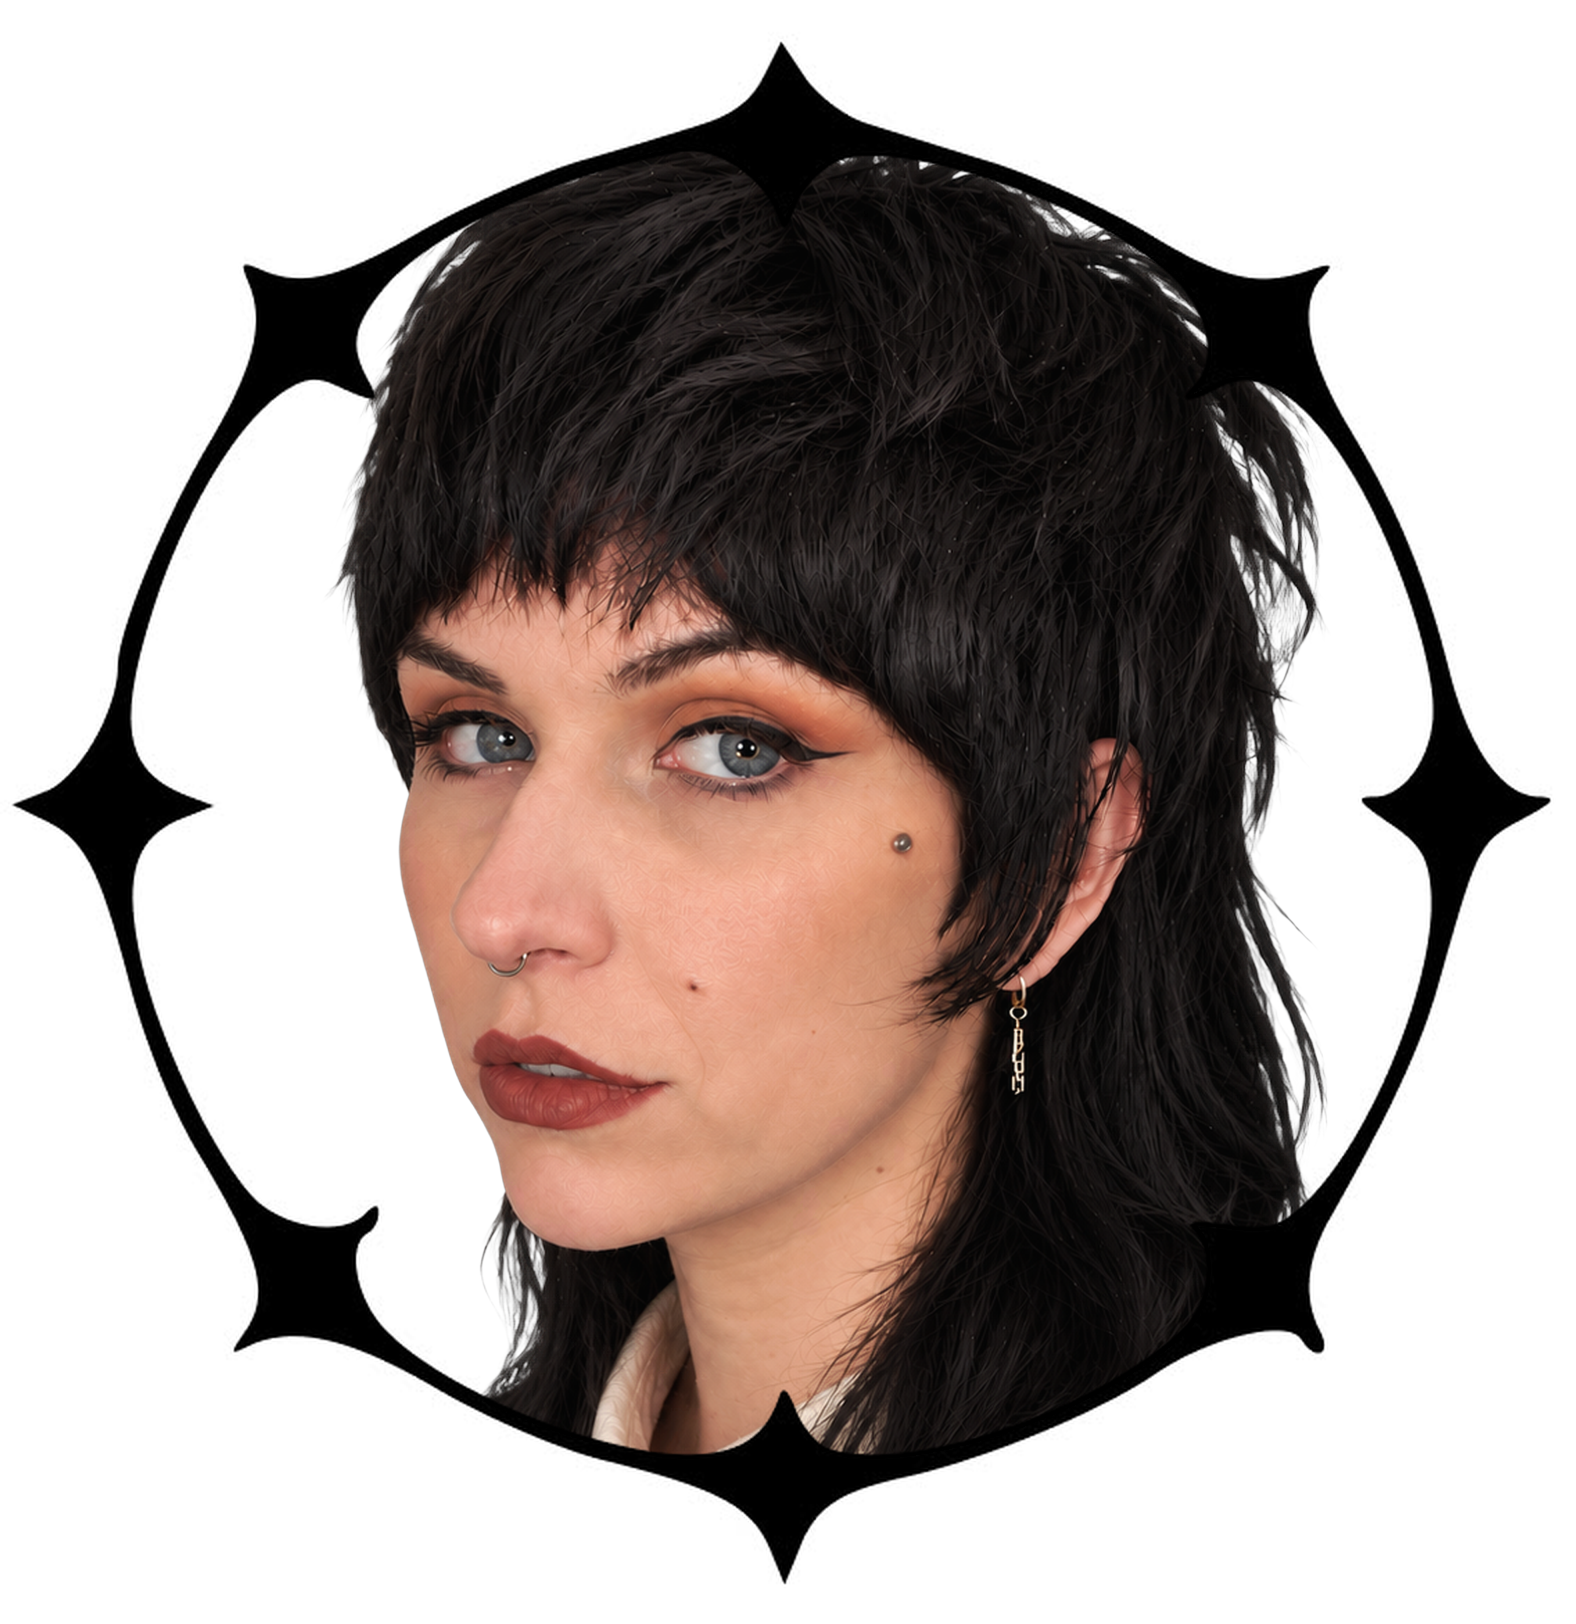
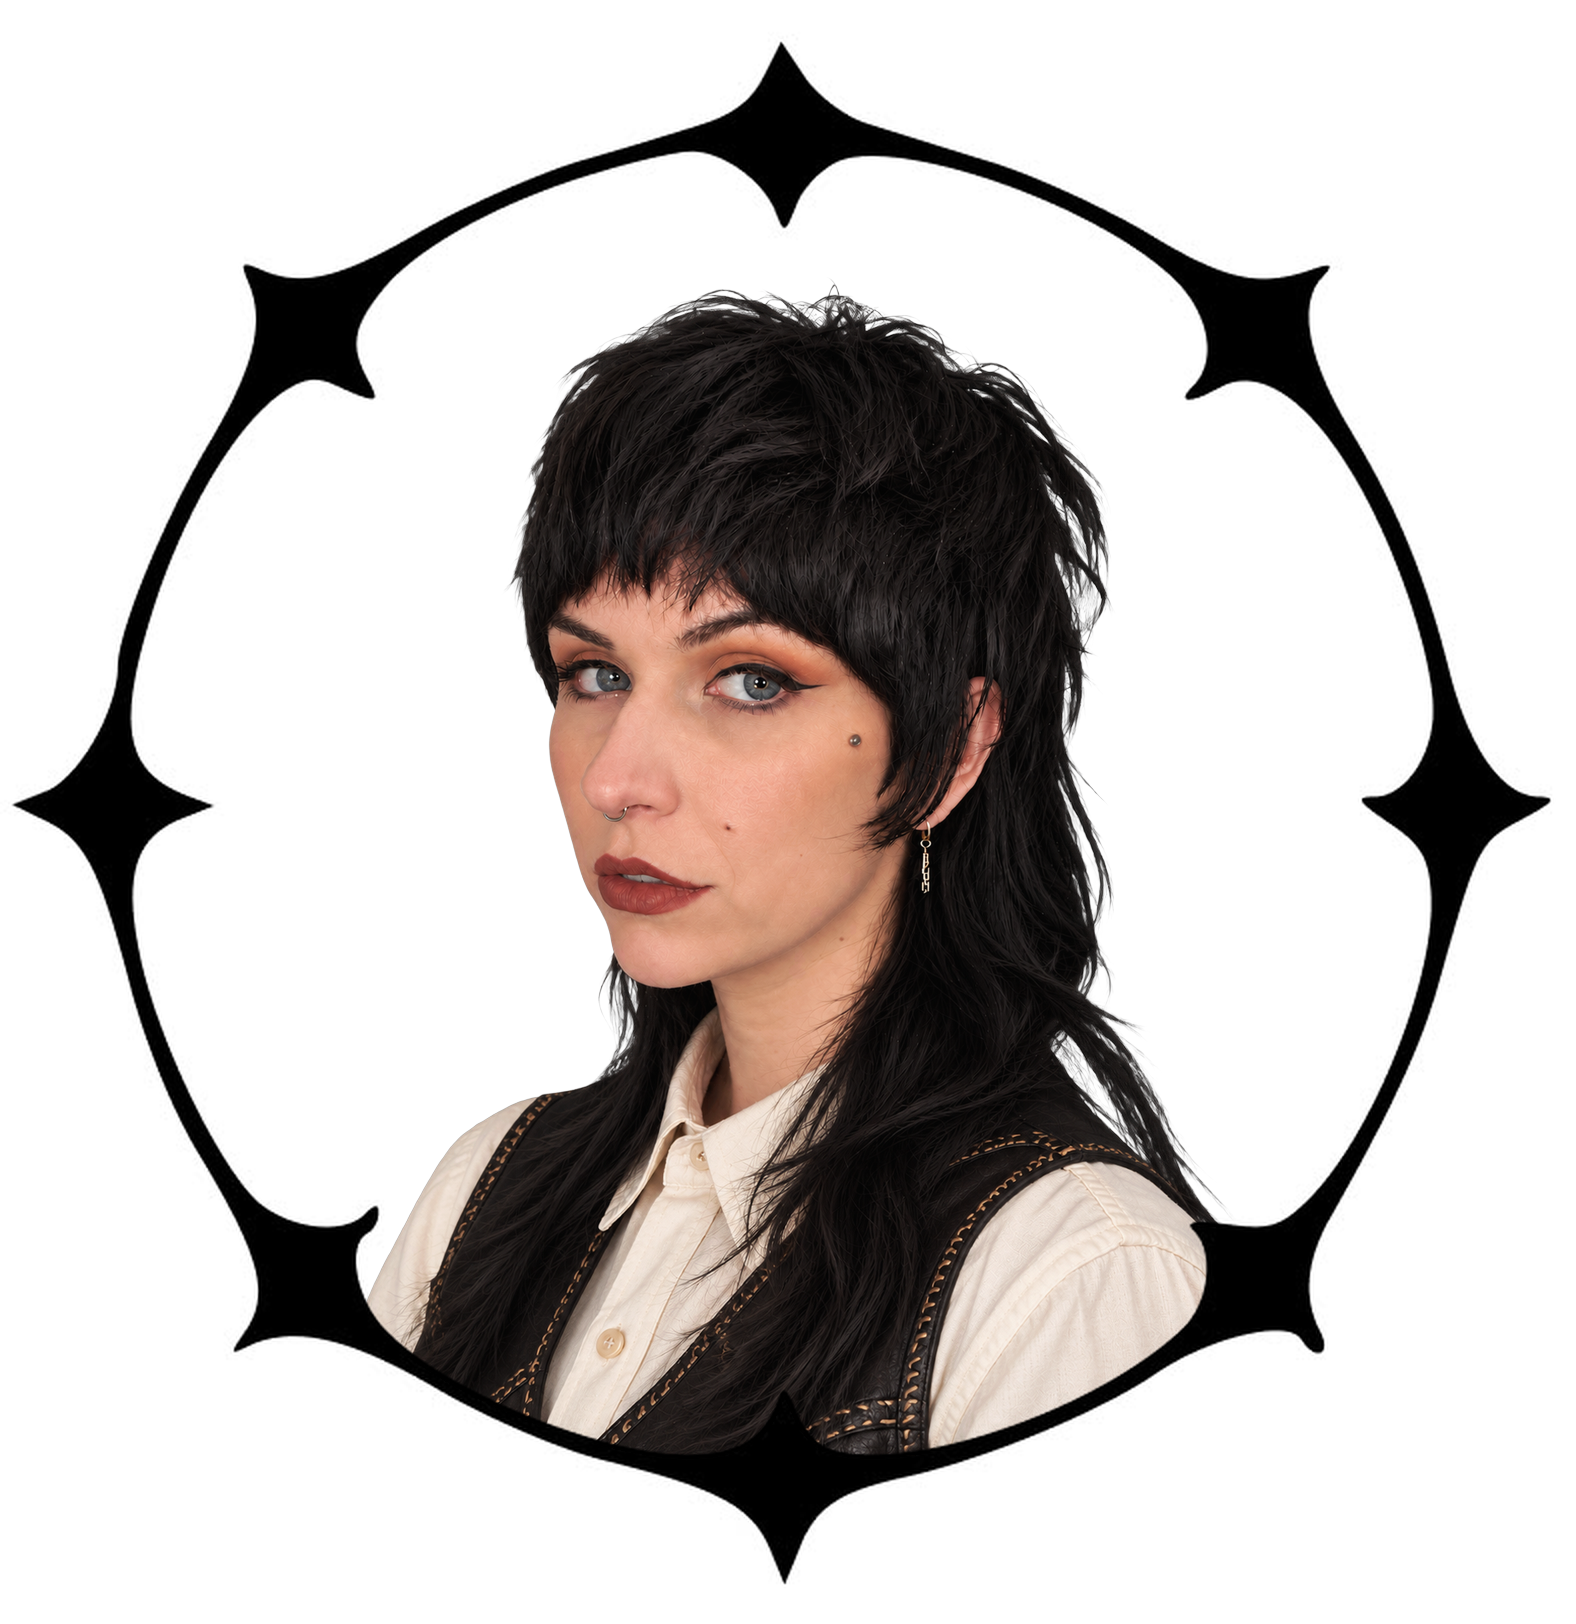
Zoom out framed portrait

diff --git a/scripts/make-framed-portrait.py b/scripts/make-framed-portrait.py
@@ -10,8 +10,8 @@ from PIL import Image, ImageDraw, ImageFilter
 
 ASSETS = Path(__file__).resolve().parent.parent / "assets"
 SCALE = 2          # the frame source is small; render at 2x so it stays sharp
-PORTRAIT_ZOOM = 1.15  # portrait width relative to the frame's inner width
-FACE_Y = 0.36      # where the face sits in the portrait, as a fraction of its height
+PORTRAIT_ZOOM = 0.7  # portrait width relative to the frame's inner width; lower = more zoomed out
+BOTTOM_OVERLAP = 40  # px the portrait runs past the frame's inner bottom, so the photo's cut edge stays hidden
 
 frame_src = Image.open(ASSETS / "portrait-frame.png").convert("L")
 frame_src = frame_src.resize((frame_src.width * SCALE, frame_src.height * SCALE), Image.LANCZOS)
@@ -32,7 +32,7 @@ portrait = Image.open(ASSETS / "eryn-portrait.png").convert("RGBA")
 width = int((right - left) * PORTRAIT_ZOOM)
 portrait = portrait.resize((width, int(portrait.height * width / portrait.width)), Image.LANCZOS)
 x = (left + right) // 2 - width // 2
-y = (top + bottom) // 2 - int(portrait.height * FACE_Y)
+y = bottom - portrait.height + BOTTOM_OVERLAP
 
 layer = Image.new("RGBA", frame.size, (0, 0, 0, 0))
 layer.paste(portrait, (x, y), portrait)
